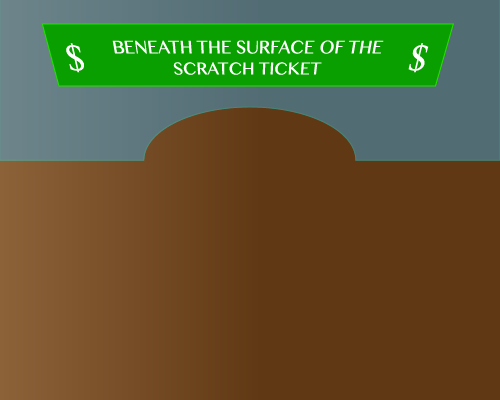
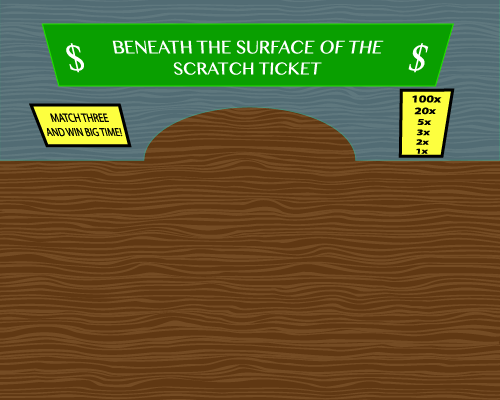
Scratching difficulty adjusted and new main screen image.

Changed region(s): [[0.0, 0.0, 0.27, 1.0], [0.78, 0.21, 0.93, 0.42]]

diff --git a/core/src/com/ldgm/bntsf/TicketScreen.java b/core/src/com/ldgm/bntsf/TicketScreen.java
@@ -157,6 +157,17 @@ public class TicketScreen extends Group {
 	}
 	
 	public void nextTicket(boolean force){
+		if(ticketPrice == 1){
+			scratchLimit = (float)Math.random()*0.03f + 0.085f;
+		}else if(ticketPrice == 2){
+			scratchLimit = (float)Math.random()*0.015f+0.06f;
+		}else if(ticketPrice == 5){
+			scratchLimit = (float)Math.random()*0.01f+0.04f;
+		}else if(ticketPrice == 10){
+			scratchLimit = (float)Math.random()*0.01f+0.03f;
+		}
+		//System.out.println(ticketPrice+" "+scratchLimit);
+		
 		if(!force && currentTicket.getScratchedRegion() == 0){
 			return;
 		}
@@ -178,15 +189,7 @@ public class TicketScreen extends Group {
 		isPaid = false;
 		isScored = false;
 		
-		if(ticketPrice == 1){
-			scratchLimit = (float)Math.random()*0.05f+0.10f;
-		}else if(ticketPrice == 2){
-			scratchLimit = (float)Math.random()*0.05f+0.08f;
-		}else if(ticketPrice == 5){
-			scratchLimit = (float)Math.random()*0.05f+0.05f;
-		}else if(ticketPrice == 10){
-			scratchLimit = (float)Math.random()*0.05f+0.03f;
-		}
+		
 		
 		
 	}

diff --git a/core/src/com/ldgm/bntsf/EndingScreen.java b/core/src/com/ldgm/bntsf/EndingScreen.java
@@ -46,13 +46,13 @@ public class EndingScreen extends Group {
 	
 	public void setScore(int score){
 		if(score == 0){
-			endMessage.setText("YOU LOST ALL YOUR MONEY. YOU CAN DO BETTER!\n"+score+"$");
+			endMessage.setText("YOU LOST ALL YOUR MONEY. TRY AGAIN!\n"+score+"$");
 		}else if(score <= 2){
-			endMessage.setText("YOU DID NOT LOST ALL YOUR MONEY!\nBUT YOU CAN DO BETTER!\n"+score+"$");
+			endMessage.setText("NOT MUCH OF A SCORE,BUT YOU DID NOT LOST ALL YOUR MONEY!\n"+score+"$");
 		}else if(score <= 10){
-			endMessage.setText("YOU ARE GETTING PREETY GOOD AT THIS!\nBUT YOU CAN DO BETTER!\n"+score+"$");
-		}else if(score <= 100){
-			endMessage.setText("WOW, YOU SHOULD QUIT YOUR JOB!\nBUT YOU CAN DO BETTER!\n"+score+"$");
+			endMessage.setText("YOU ARE GETTING PREETY GOOD AT THIS!\n"+score+"$");
+		}else if(score <= 120){
+			endMessage.setText("WOW, YOU SHOULD QUIT YOUR JOB!\n"+score+"$");
 		}else{
 			endMessage.setText("DAMN! THAT'S A LOT OF MONEY!\nCONGRATULATIONS!\n"+score+"$");
 		}

diff --git a/core/src/com/ldgm/bntsf/ScratchLayer.java b/core/src/com/ldgm/bntsf/ScratchLayer.java
@@ -116,7 +116,7 @@ public class ScratchLayer extends Group {
 	}
 	
 	public float getClearedRegion(){
-		ByteBuffer bb = pixmap.getPixels();
+		ByteBuffer bb = (ByteBuffer)pixmap.getPixels();
 		int pos = bb.position();
 		bb.position(0);
 		int all = bb.limit()/4;
@@ -134,7 +134,6 @@ public class ScratchLayer extends Group {
 	
 	@Override
 	public void draw(Batch batch, float parentAlpha) {
-		// TODO Auto-generated method stub
 		super.draw(batch, parentAlpha);
 		sprite.draw(batch);
 		sprite.draw(batch);
@@ -149,7 +148,6 @@ public class ScratchLayer extends Group {
 	
 	@Override
 	public void setPosition(float x, float y) {
-		// TODO Auto-generated method stub
 		super.setPosition(x, y);
 		sprite.setPosition(x, y);
 	}

diff --git a/core/src/com/ldgm/bntsf/CounterScreen.java b/core/src/com/ldgm/bntsf/CounterScreen.java
@@ -77,9 +77,11 @@ public class CounterScreen extends Group {
 		
 		float ticketSize = 100;
 		
-		button1.setPosition(10, 130 - button1.getHeight()*1.1f);
 		
-		button2.setPosition(button1.getX() + ticketSize*1.1f, button1.getY());
+		
+		button2.setPosition(width/2f - ticketSize*1.05f, 130 - button2.getHeight()*1.1f);
+		
+		button1.setPosition(button2.getX() - ticketSize*1.1f, button2.getY());
 		
 		button5.setPosition(button2.getX() + ticketSize*1.1f, button1.getY());
 		
